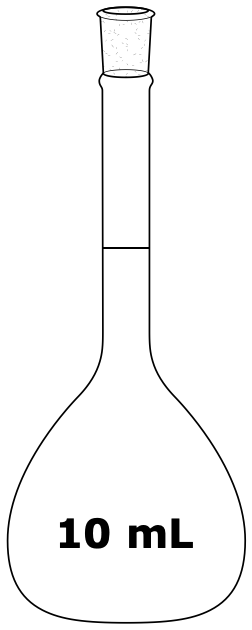
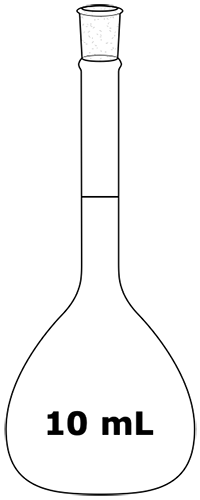
style changes and volumetric flask added

diff --git a/src/scripts/scenes/weighScene.ts b/src/scripts/scenes/weighScene.ts
@@ -78,6 +78,9 @@ export default class WeighScene extends BaseScene {
             case 'graduatedCylinder':
                 glassY = 210;
                 break;
+            case 'volumetricFlask':
+                glassY = 225;
+                break;
         }
         this.createGlassware(glassX, glassY, this.waterAmountStart);
         this.glassware.on('pointerover', () => {
@@ -185,6 +188,7 @@ export default class WeighScene extends BaseScene {
             }
         });
 
+         //------------------------------------VOLUME CHECKS-----------------------------------
         this.volumeInput = new InputLine(this, inputX, inputY + 225, "Calculate Volume of Water", "Enter water volume");
         this.volumeInput.addOnClick(() => {
 
@@ -243,11 +247,13 @@ export default class WeighScene extends BaseScene {
 
         this.events.on('wake', this.onWake, this);
 
-        //----------------------------------- debug ----------------------------------------
+        //---------------------------------------------- DEBUG ----------------------------------------------
         setInterval( ()=>{
-            console.log({iWeight: this.iWeight, fWeight: this.fWeightInput, density: this.density, volume: this.volume, percent: this.toDecimalPlace(( Math.abs(this.glassware.target - this.volume) / this.glassware.target)*100, 2)});
-        }, 3000 );
+            console.log({iWeight: this.iWeight, density: this.density, volume: this.volume, percent: this.toDecimalPlace(( Math.abs(this.glassware.target - this.volume) / this.glassware.target)*100, 2)});
+        }, 4000 );
     }
+
+
 
     onWake(sys, data){
         this.input.disable(this.glassware);
@@ -267,6 +273,12 @@ export default class WeighScene extends BaseScene {
         this.clickText.alpha = 0;
         //this.volumeInput.show();
     }
+
+    
+    update() {
+        //this.clickText.setText("val: " + this.iWeightInput.value);
+        //this.iWeightInput.setLabel("Initial Weight: " + this.iWeightInput.value + " g");
+    }
     
     withinRange(num: number, lower: number, upper:number):boolean{
         if(num <= upper && num >= lower){
@@ -285,11 +297,6 @@ export default class WeighScene extends BaseScene {
         return Number(new Number(num).toPrecision(sigfig)).valueOf();
     }
 
-    update() {
-        //this.clickText.setText("val: " + this.iWeightInput.value);
-        //this.iWeightInput.setLabel("Initial Weight: " + this.iWeightInput.value + " g");
-
-    }
 
     //if there's a formula for this, use that instead
     setTempDensity(){

diff --git a/src/scripts/scenes/selectionScene.ts b/src/scripts/scenes/selectionScene.ts
@@ -1,15 +1,10 @@
-import Glassware from "../objects/glassware";
-import GraduatedCylinder from "./../objects/graduatedCylinder";
 import ImageButton from "./../objects/imageButton";
 import BaseScene from "./baseScene";
 import InteractiveButton from "../objects/interactiveButton";
-import Beaker from '../objects/Beaker';
 
 export default class SelectionScene extends BaseScene{
 
     beakerButton;
-    beaker;
-    graduatedCylinder;
 
     constructor() {
         super('SelectionScene');
@@ -18,19 +13,17 @@ export default class SelectionScene extends BaseScene{
     create() {
         super.create();
 
-        this.beakerButton = new InteractiveButton(this, this.WIDTH / 2, 300, 'BEAKER', '#000').on('pointerup', () => {
-            this.beakerButton.buttonHover();
+        new ImageButton(this, this.WIDTH/4, 250,'beaker', 'beaker').onClick( () =>{
             this.scene.start('WeighScene', { glasstype: 'beaker' , waterAmount: 0});
         });
 
-        this.beaker = new ImageButton(this, 300, 200,'beaker', 'beaker').onClick( () =>{
-            this.scene.start('WeighScene', { glasstype: 'beaker' , waterAmount: 0});
-        });
-
-        this.graduatedCylinder = new ImageButton(this, 600, 200,'graduatedCylinder', 'graduated cylinder').onClick( () =>{
+        new ImageButton(this, 2*this.WIDTH/4, 200,'graduatedCylinder', 'graduated cylinder').onClick( () =>{
             this.scene.start('WeighScene', { glasstype: 'graduatedCylinder' , waterAmount: 0});
         });
 
+        new ImageButton(this, 3*this.WIDTH/4, 210,'volumetricFlask', 'volumetric flask').onClick( () =>{
+            this.scene.start('WeighScene', { glasstype: 'volumetricFlask' , waterAmount: 0});
+        });
     }
 
     update() {

diff --git a/src/scripts/objects/imageButton.ts b/src/scripts/objects/imageButton.ts
@@ -4,27 +4,29 @@ export default class ImageButton{
     text;
 
     constructor(scene: Phaser.Scene, x: number, y: number, imageName: string, text: string) {
-        this.glass = scene.add.image(x, y, imageName).setOrigin(.5,0);
+        this.glass = scene.add.image(x, y, imageName).setTintFill(0xFFFFFF).setOrigin(.5,0);
         
         this.text = scene.add.text(x, y-this.glass.height*.05, text.toUpperCase(), 
-        { backgroundColor: '#2badf1', color: '#000', fontStyle: 'bold', fontSize: 32, align: 'center', fixedWidth: this.glass.width*1.2, wordWrap: {width: this.glass.width}, padding:{top:this.glass.height*1.1, bottom:this.glass.height*.05}}).setDepth(-99).setOrigin(.5,0);
-
+        { backgroundColor: '#444', color: '#FFF', fontStyle: 'bold', fontSize: 32, align: 'center', fixedWidth: this.glass.width*1.2, wordWrap: {width: this.glass.width}, padding:{top:this.glass.height*1.1, bottom:this.glass.height*.05}}).setDepth(-99).setOrigin(.5,0);
+        //#3330AA
         this.text.on('pointerover', () => {this.buttonHover()})
             .on('pointerout', () => {this.buttonRest()})
             .on('pointerdown', () => {this.buttonDown()});
 
-        this.setScale(.6);
+        this.setScale(.7);
         this.text.setInteractive();
     }
     
 
     buttonHover(){
-        this.glass.alpha = .5;
-        this.text.alpha = .5;
+        //this.glass.alpha = .5;
+        //this.text.alpha = .5;
+        this.text.setStyle({backgroundColor:'#3330AA'});
     }
     buttonRest(){
         this.glass.alpha = 1;
         this.text.alpha = 1;
+        this.text.setStyle({backgroundColor:'#444'});
     }
     buttonDown(){
         this.glass.alpha = 1;

diff --git a/src/scripts/objects/volumetricFlask.ts b/src/scripts/objects/volumetricFlask.ts
@@ -1,0 +1,46 @@
+import Glassware from "./glassware";
+
+export default class VolumetricFlask extends Glassware{
+
+    
+    constructor(scene: Phaser.Scene, x: number, y: number) {
+        super(scene, x, y, 'volumetricFlask');
+        this.glasstype = 'volumetricFlask';
+        this.description = 'A volumetric flask ...';
+        
+        this.max = 12;
+        this.target = 10;
+        this.weight = 45;
+        this.percentVariation = .005;
+
+        let w = this.waterImage.width*3;
+        let h = this.waterImage.height;
+        this.addMask(scene, x, y, w, h);
+    }
+    
+    addWater(){
+        if(this.waterAmount < this.max){
+            this.waterAmount += 2;
+            this.updateMask();
+        }
+    }
+
+    subtractWater(){
+        if(this.waterAmount > 0){
+            this.waterAmount -= 2;
+            this.updateMask();
+        }
+    }
+
+    //updates height of mask 
+    updateMask(){
+        this.maskShape.y = this.maskHeightStart -  (this.waterAmount * (this.waterImage.height-135)/this.max);
+    }
+
+    setWater(amountOfWater:number){
+        this.waterAmount = amountOfWater;
+        this.updateMask();
+    }
+
+}
+

diff --git a/src/scripts/scenes/baseScene.ts b/src/scripts/scenes/baseScene.ts
@@ -1,4 +1,5 @@
 import Glassware from "../objects/glassware";
+import VolumetricFlask from "./../objects/volumetricFlask";
 import GraduatedCylinder from "./../objects/graduatedCylinder";
 import Beaker from '../objects/Beaker';
 import InteractiveButton from "../objects/interactiveButton";
@@ -27,6 +28,9 @@ export default class BaseScene extends Phaser.Scene {
                 break;
             case 'graduatedCylinder':
                 this.glassware = new GraduatedCylinder(this, x, y);
+                break;
+            case 'volumetricFlask':
+                this.glassware = new VolumetricFlask(this, x, y);
                 break;
             //others go here, note using same glass in other scenes need to send info on waterAmount
         }

diff --git a/src/scripts/scenes/preloadScene.ts b/src/scripts/scenes/preloadScene.ts
@@ -13,6 +13,9 @@ export default class PreloadScene extends Phaser.Scene {
     this.load.image('graduatedCylinder','assets/graduatedcylinder10ml.png');
     this.load.image('graduatedCylinderFill','assets/graduatedcylinder10ml_fill.png');
 
+    this.load.image('volumetricFlask','assets/volumetricflask10ml.png');
+    this.load.image('volumetricFlaskFill','assets/volumetricflask10ml_fill.png');
+
     this.load.image('scale','assets/scale.png' );
     this.load.image('waterTable','assets/watertable.png' );
 

diff --git a/src/scripts/objects/graduatedCylinder.ts b/src/scripts/objects/graduatedCylinder.ts
@@ -1,4 +1,3 @@
-import { GameObjects } from "phaser";
 import Glassware from "./glassware";
 
 export default class GraduatedCylinder extends Glassware{
@@ -11,7 +10,7 @@ export default class GraduatedCylinder extends Glassware{
         
         this.max = 10;
         this.target = Math.floor(Math.random() * 9)+ 1;
-        this.weight = 80;
+        this.weight = 40;
         this.percentVariation = .02;
 
         let w = this.waterImage.width*3;

diff --git a/src/scripts/objects/beaker.ts b/src/scripts/objects/beaker.ts
@@ -1,4 +1,3 @@
-import { GameObjects } from "phaser";
 import Glassware from "./glassware";
 
 export default class Beaker extends Glassware{
@@ -11,7 +10,7 @@ export default class Beaker extends Glassware{
         
         this.max = 50;
         this.target = Math.floor(Math.random() * 4) * 10 + 10;
-        this.weight = 50;
+        this.weight = 60;
         this.percentVariation = .1;
 
         let w = this.waterImage.width*3;
